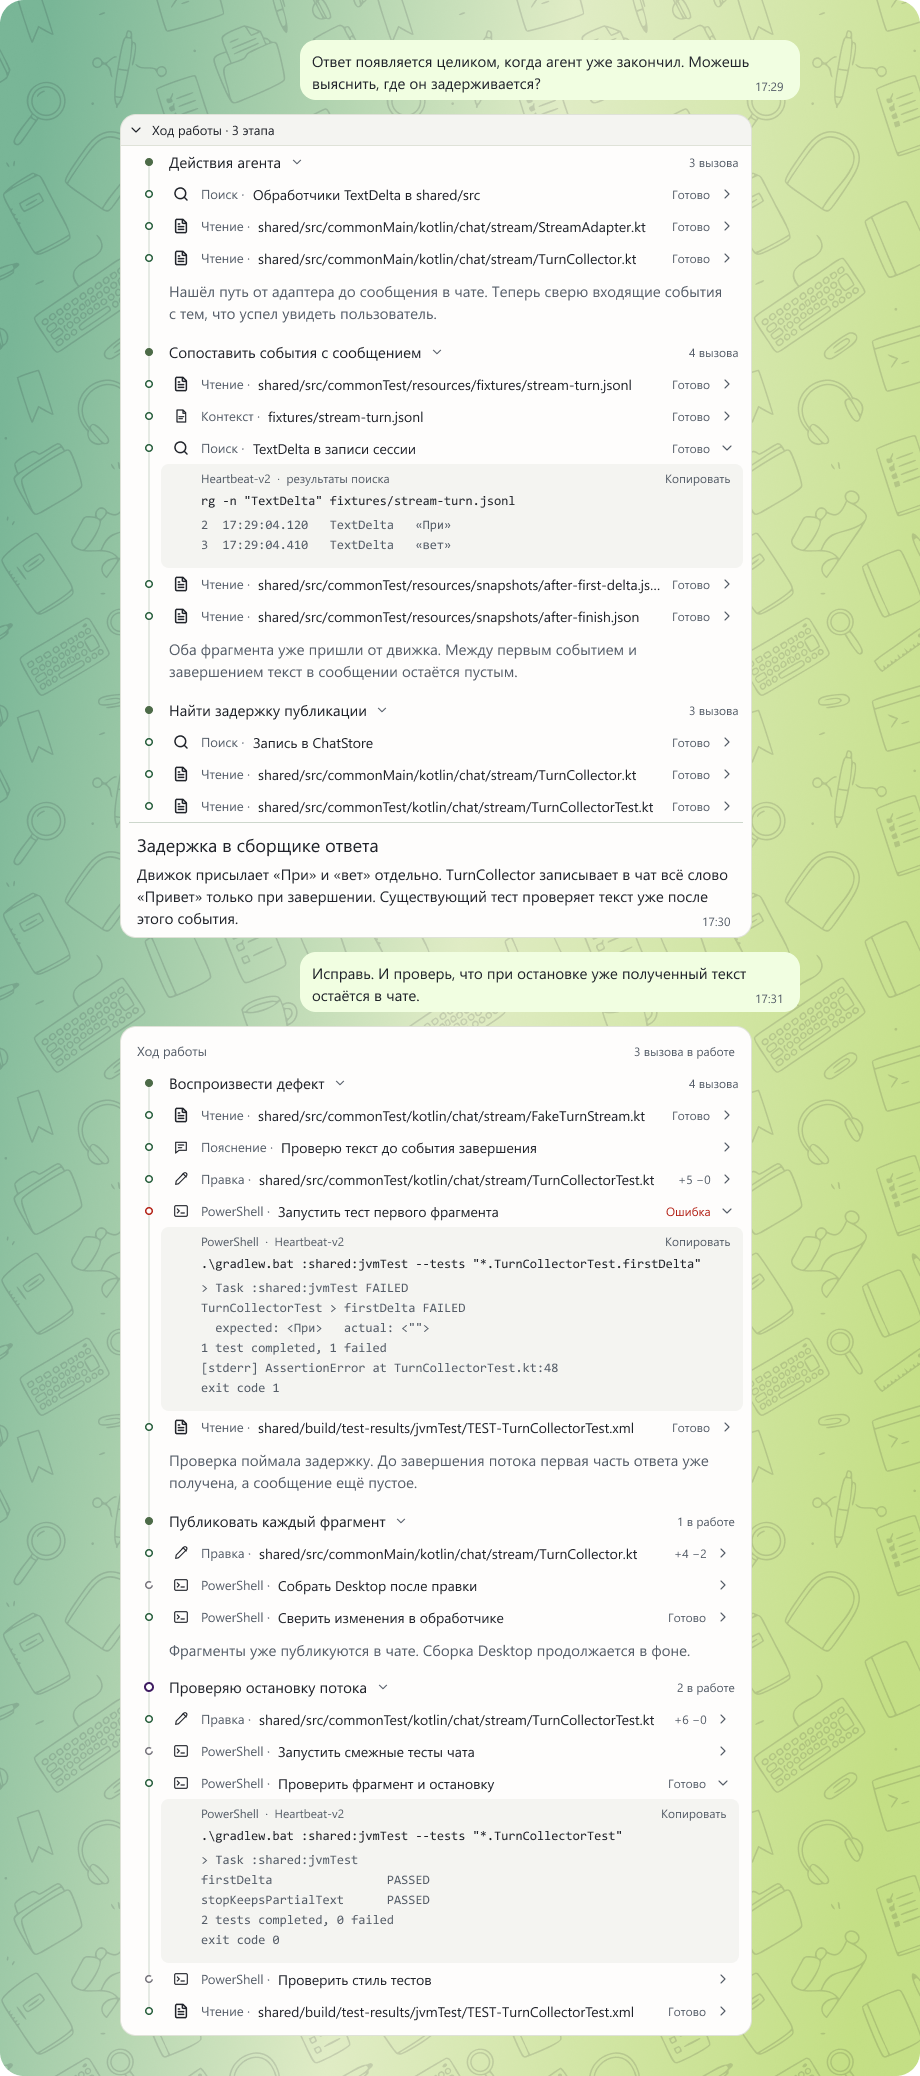
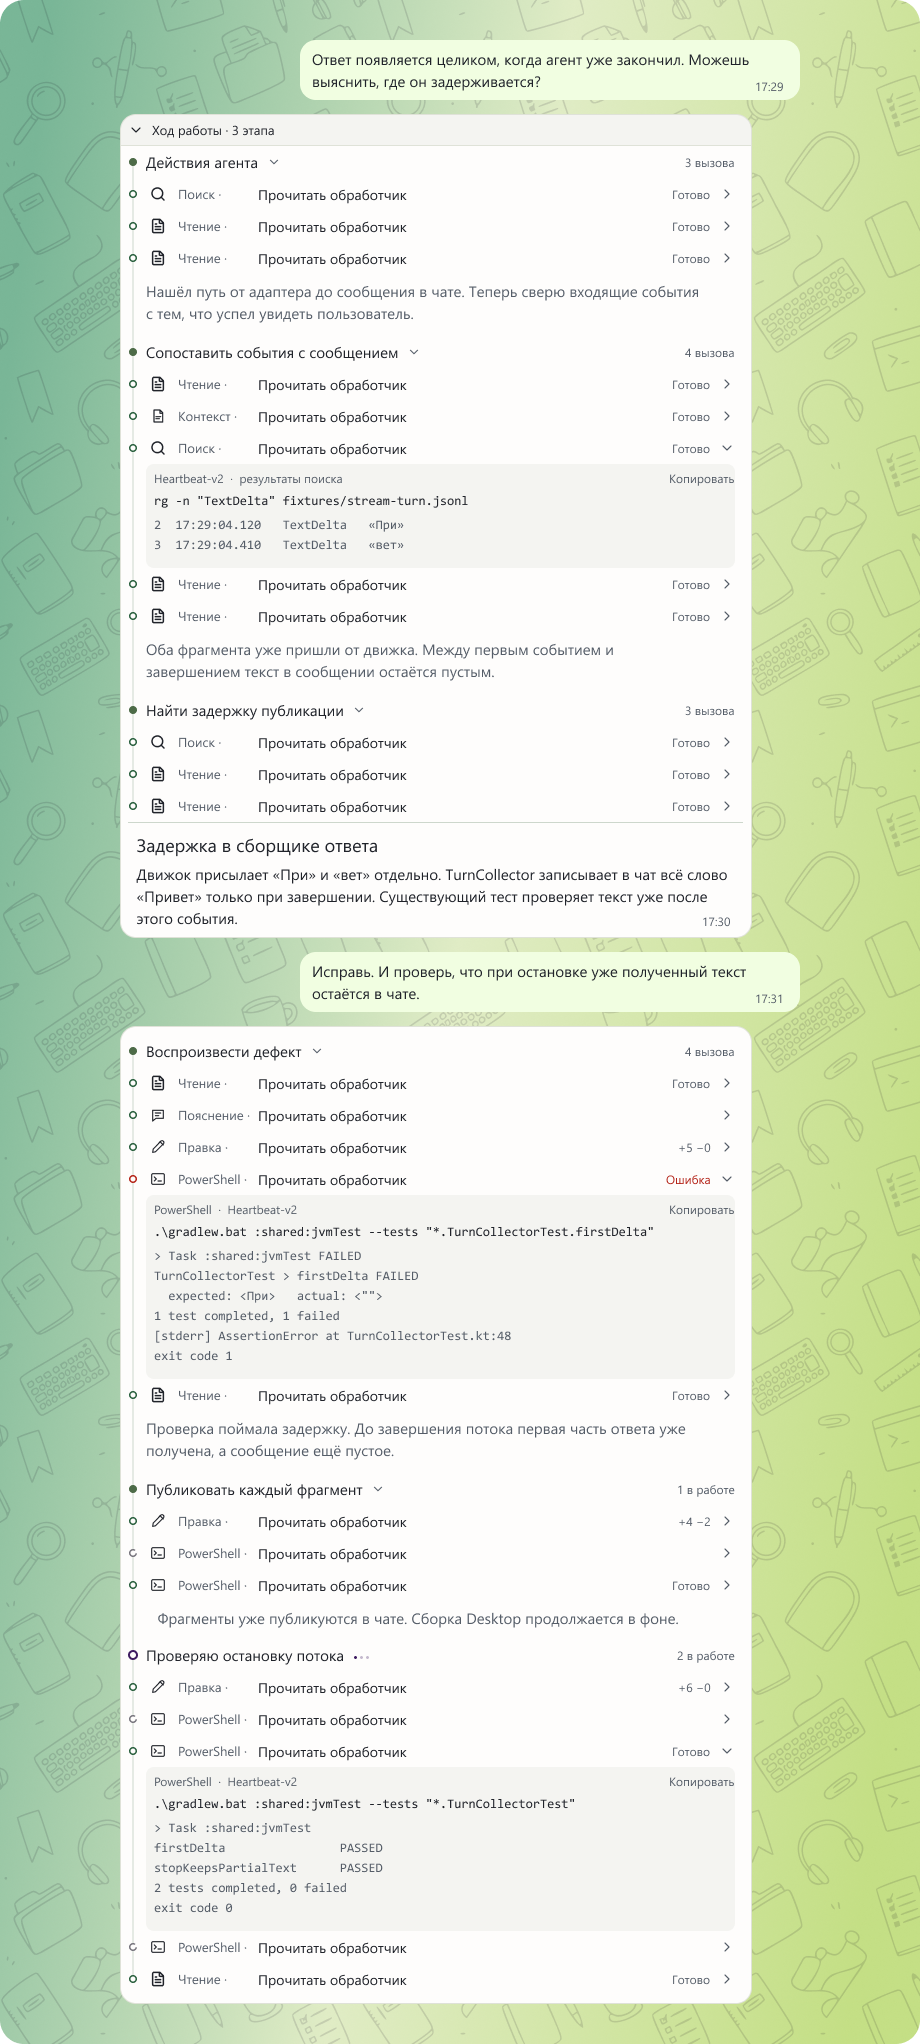
Align expanded stage and tool columns across both agent turns

diff --git a/specs/desktop-aurora-agent-workspace.md b/specs/desktop-aurora-agent-workspace.md
@@ -42,6 +42,8 @@
 
 ## Хронология и инструменты
 
+В раскрытом этапе заголовок, промежуточный итог, колонка иконок инструментов и фон подробностей начинаются на одной вертикали. Для типа операции отведено 72 dp, затем через 8 dp начинается путь или описание вызова. Длинный путь сокращается внутри своей колонки. Счётчик этапа и шевроны вызовов выровнены по правому краю. У раскрытого вывода внутренний отступ слева — 8 dp. [Снимок двух ходов](../previews/desktop-agent-turns/longread.png)
+
 В хронологии маркеры занимают колонку шириной 10 dp с отступом 8 dp от левого края облачка. Линия проходит в 13 dp от края, через центры закрашенной точки диаметром 8 dp и фиолетового кольца диаметром 10 dp. При продолжении работы линия соединяет последнюю завершённую операцию и новый активный ход. [Снимок продолжения](../previews/desktop-agent-turns/resumed-timeline.png). [Снимок с тремя завершёнными этапами](../previews/desktop-agent-turns/stage-marker-inset.png)
 
 В прерванном ответе с одним вызовом левый край маркера и начало текста ошибки стоят на одной вертикали, в 8 dp от края облачка. [Снимок прерванного ответа](../previews/desktop-agent-turns/interrupted-reply-alignment.png)
